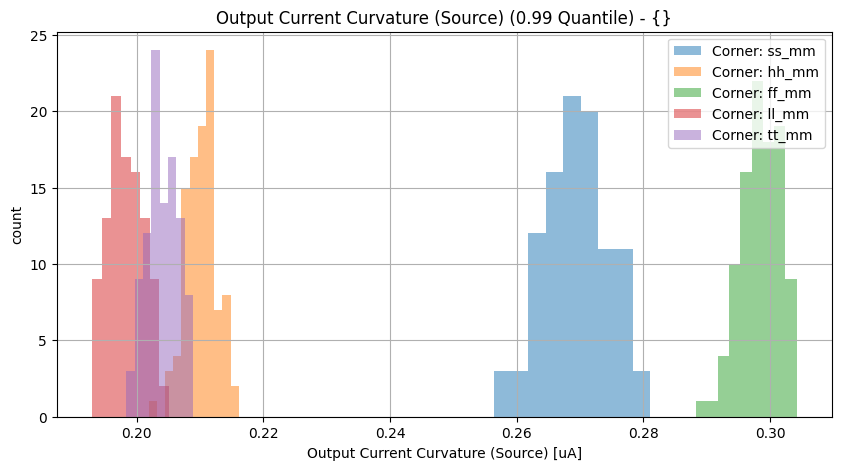
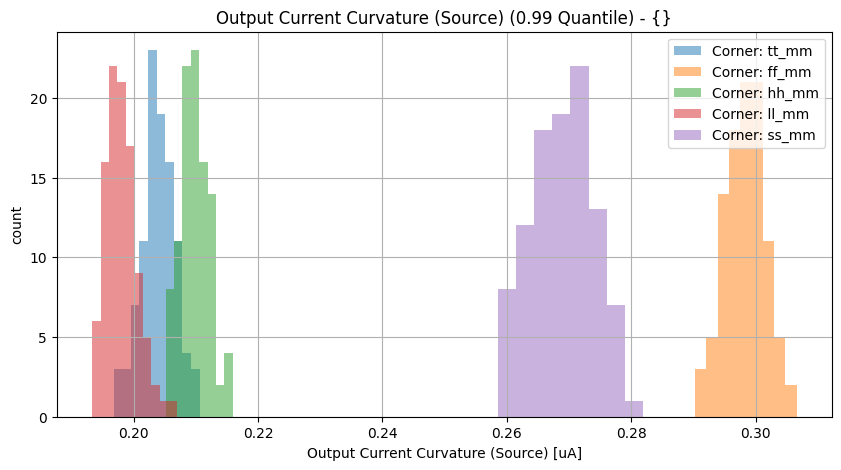
Jenkins update

diff --git a/vthref/vthref/Readme.md b/vthref/vthref/Readme.md
@@ -1,4 +1,4 @@
-23.01.2024, 15:21:02
+23.01.2024, 15:23:52
 
 # Vth Current Reference
 
@@ -30,8 +30,8 @@
 
 | Parameter | Min (Spec. / Sim.) |      | Max (Sim. / Spec.) | Unit | Checks (total/pass/fail/NaN) | Comment |
 | :-------- | -----------------: | :--: | :----------------- | :--- | :--------------------------- | ------- |
-| Output Current Curvature (Sink) | 0.0 / 0.191 | <svg height="20" width="150"><polyline points="3.0,3,3.0,17,147.0,17,147.0,3" style="fill:none;stroke:gray;stroke-width:1" /><polyline points="75.0,10.0,75.0,17" style="fill:none;stroke:gray;stroke-width:1" /><polyline points="30.482198399999998,10.0,47.946576,10.0" style="stroke:green;stroke-width:2" /><circle cx="30.482198399999998" cy="10.0" r="3" style="fill:green;stroke:green;stroke-width:0" /><circle cx="47.946576" cy="10.0" r="3" style="fill:green;stroke:green;stroke-width:0" /></svg> | 0.312 / 1.0 | uA | 500/100.0%/0.0%/0.0% |  |
-| Output Current Curvature (Source) | 0.0 / 0.193 | <svg height="20" width="150"><polyline points="3.0,3,3.0,17,147.0,17,147.0,3" style="fill:none;stroke:gray;stroke-width:1" /><polyline points="75.0,10.0,75.0,17" style="fill:none;stroke:gray;stroke-width:1" /><polyline points="30.7857216,10.0,46.8034608,10.0" style="stroke:green;stroke-width:2" /><circle cx="30.7857216" cy="10.0" r="3" style="fill:green;stroke:green;stroke-width:0" /><circle cx="46.8034608" cy="10.0" r="3" style="fill:green;stroke:green;stroke-width:0" /></svg> | 0.304 / 1.0 | uA | 500/100.0%/0.0%/0.0% |  |
+| Output Current Curvature (Sink) | 0.0 / 0.191 | <svg height="20" width="150"><polyline points="3.0,3,3.0,17,147.0,17,147.0,3" style="fill:none;stroke:gray;stroke-width:1" /><polyline points="75.0,10.0,75.0,17" style="fill:none;stroke:gray;stroke-width:1" /><polyline points="30.5331024,10.0,48.069192,10.0" style="stroke:green;stroke-width:2" /><circle cx="30.5331024" cy="10.0" r="3" style="fill:green;stroke:green;stroke-width:0" /><circle cx="48.069192" cy="10.0" r="3" style="fill:green;stroke:green;stroke-width:0" /></svg> | 0.313 / 1.0 | uA | 500/100.0%/0.0%/0.0% |  |
+| Output Current Curvature (Source) | 0.0 / 0.193 | <svg height="20" width="150"><polyline points="3.0,3,3.0,17,147.0,17,147.0,3" style="fill:none;stroke:gray;stroke-width:1" /><polyline points="75.0,10.0,75.0,17" style="fill:none;stroke:gray;stroke-width:1" /><polyline points="30.8407296,10.0,47.147260800000005,10.0" style="stroke:green;stroke-width:2" /><circle cx="30.8407296" cy="10.0" r="3" style="fill:green;stroke:green;stroke-width:0" /><circle cx="47.147260800000005" cy="10.0" r="3" style="fill:green;stroke:green;stroke-width:0" /></svg> | 0.307 / 1.0 | uA | 500/100.0%/0.0%/0.0% |  |
 
 <br>
 
@@ -50,16 +50,18 @@
 
 | Parameter | Min (Spec. / Sim.) |      | Max (Sim. / Spec.) | Unit | Checks (total/pass/fail/NaN) | Comment |
 | :-------- | -----------------: | :--: | :----------------- | :--- | :--------------------------- | ------- |
-| Output Current Curvature (Sink) | 0.0 / 0.193 | <svg height="20" width="150"><polyline points="3.0,3,3.0,17,33.6846578202514,17,33.6846578202514,3" style="fill:none;stroke:gray;stroke-width:1" /><polyline points="18.3423289101257,10.0,18.3423289101257,17" style="fill:none;stroke:gray;stroke-width:1" /><polyline points="8.919908184684989,10.0,147.0,10.0" style="stroke:red;stroke-width:2" /><circle cx="8.919908184684989" cy="10.0" r="3" style="fill:red;stroke:red;stroke-width:0" /><circle cx="147.0" cy="10.0" r="3" style="fill:red;stroke:red;stroke-width:0" /></svg> | 4.693 / 1.0 | uA | 500/99.8%/0.2%/0.0% |  |
-| Output Current Curvature (Source) | 0.0 / 0.2 | <svg height="20" width="150"><polyline points="3.0,3,3.0,17,34.16211984648328,17,34.16211984648328,3" style="fill:none;stroke:gray;stroke-width:1" /><polyline points="18.58105992324164,10.0,18.58105992324164,17" style="fill:none;stroke:gray;stroke-width:1" /><polyline points="9.228120480545856,10.0,147.0,10.0" style="stroke:red;stroke-width:2" /><circle cx="9.228120480545856" cy="10.0" r="3" style="fill:red;stroke:red;stroke-width:0" /><circle cx="147.0" cy="10.0" r="3" style="fill:red;stroke:red;stroke-width:0" /></svg> | 4.621 / 1.0 | uA | 500/99.8%/0.2%/0.0% |  |
+| Output Current Curvature (Sink) | 0.0 / 0.193 | <svg height="20" width="150"><polyline points="3.0,3,3.0,17,33.706950774198994,17,33.706950774198994,3" style="fill:none;stroke:gray;stroke-width:1" /><polyline points="18.353475387099497,10.0,18.353475387099497,17" style="fill:none;stroke:gray;stroke-width:1" /><polyline points="8.935248252902447,10.0,147.0,10.0" style="stroke:red;stroke-width:2" /><circle cx="8.935248252902447" cy="10.0" r="3" style="fill:red;stroke:red;stroke-width:0" /><circle cx="147.0" cy="10.0" r="3" style="fill:red;stroke:red;stroke-width:0" /></svg> | 4.689 / 1.0 | uA | 500/99.6%/0.4%/0.0% |  |
+| Output Current Curvature (Source) | 0.0 / 0.197 | <svg height="20" width="150"><polyline points="3.0,3,3.0,17,34.15451492744784,17,34.15451492744784,3" style="fill:none;stroke:gray;stroke-width:1" /><polyline points="18.57725746372392,10.0,18.57725746372392,17" style="fill:none;stroke:gray;stroke-width:1" /><polyline points="9.12350714163167,10.0,147.0,10.0" style="stroke:red;stroke-width:2" /><circle cx="9.12350714163167" cy="10.0" r="3" style="fill:red;stroke:red;stroke-width:0" /><circle cx="147.0" cy="10.0" r="3" style="fill:red;stroke:red;stroke-width:0" /></svg> | 4.622 / 1.0 | uA | 500/99.6%/0.4%/0.0% |  |
 
 <details><summary>Show specification violation details...</summary>
 
 > **FAIL:** Specification violation for parameter "Output Current Curvature (Sink)":<br>
-> **FAIL:** group:ff_mm file:work/sim/vthref/vthref_tb.4_dcext/batch_2/ff_mm/dc.csv Index:2 <br>
+> **FAIL:** group:ff_mm file:work/sim/vthref/vthref_tb.4_dcext/batch_0/ff_mm/dc.csv Index:7 <br>
+> **FAIL:** group:ll_mm file:work/sim/vthref/vthref_tb.4_dcext/batch_0/ll_mm/dc.csv Index:10 <br>
 
 > **FAIL:** Specification violation for parameter "Output Current Curvature (Source)":<br>
-> **FAIL:** group:ff_mm file:work/sim/vthref/vthref_tb.4_dcext/batch_2/ff_mm/dc.csv Index:2 <br>
+> **FAIL:** group:ff_mm file:work/sim/vthref/vthref_tb.4_dcext/batch_0/ff_mm/dc.csv Index:7 <br>
+> **FAIL:** group:ll_mm file:work/sim/vthref/vthref_tb.4_dcext/batch_0/ll_mm/dc.csv Index:10 <br>
 </details><br>
 
 

diff --git a/vthref/vthref/specReport.md b/vthref/vthref/specReport.md
@@ -13,8 +13,8 @@
 
 | Parameter | Min (Spec. / Sim.) |      | Max (Sim. / Spec.) | Unit | Checks (total/pass/fail/NaN) | Comment |
 | :-------- | -----------------: | :--: | :----------------- | :--- | :--------------------------- | ------- |
-| Output Current Curvature (Sink) | 0.0 / 0.191 | <svg height="20" width="150"><polyline points="3.0,3,3.0,17,147.0,17,147.0,3" style="fill:none;stroke:gray;stroke-width:1" /><polyline points="75.0,10.0,75.0,17" style="fill:none;stroke:gray;stroke-width:1" /><polyline points="30.482198399999998,10.0,47.946576,10.0" style="stroke:green;stroke-width:2" /><circle cx="30.482198399999998" cy="10.0" r="3" style="fill:green;stroke:green;stroke-width:0" /><circle cx="47.946576" cy="10.0" r="3" style="fill:green;stroke:green;stroke-width:0" /></svg> | 0.312 / 1.0 | uA | 500/100.0%/0.0%/0.0% |  |
-| Output Current Curvature (Source) | 0.0 / 0.193 | <svg height="20" width="150"><polyline points="3.0,3,3.0,17,147.0,17,147.0,3" style="fill:none;stroke:gray;stroke-width:1" /><polyline points="75.0,10.0,75.0,17" style="fill:none;stroke:gray;stroke-width:1" /><polyline points="30.7857216,10.0,46.8034608,10.0" style="stroke:green;stroke-width:2" /><circle cx="30.7857216" cy="10.0" r="3" style="fill:green;stroke:green;stroke-width:0" /><circle cx="46.8034608" cy="10.0" r="3" style="fill:green;stroke:green;stroke-width:0" /></svg> | 0.304 / 1.0 | uA | 500/100.0%/0.0%/0.0% |  |
+| Output Current Curvature (Sink) | 0.0 / 0.191 | <svg height="20" width="150"><polyline points="3.0,3,3.0,17,147.0,17,147.0,3" style="fill:none;stroke:gray;stroke-width:1" /><polyline points="75.0,10.0,75.0,17" style="fill:none;stroke:gray;stroke-width:1" /><polyline points="30.5331024,10.0,48.069192,10.0" style="stroke:green;stroke-width:2" /><circle cx="30.5331024" cy="10.0" r="3" style="fill:green;stroke:green;stroke-width:0" /><circle cx="48.069192" cy="10.0" r="3" style="fill:green;stroke:green;stroke-width:0" /></svg> | 0.313 / 1.0 | uA | 500/100.0%/0.0%/0.0% |  |
+| Output Current Curvature (Source) | 0.0 / 0.193 | <svg height="20" width="150"><polyline points="3.0,3,3.0,17,147.0,17,147.0,3" style="fill:none;stroke:gray;stroke-width:1" /><polyline points="75.0,10.0,75.0,17" style="fill:none;stroke:gray;stroke-width:1" /><polyline points="30.8407296,10.0,47.147260800000005,10.0" style="stroke:green;stroke-width:2" /><circle cx="30.8407296" cy="10.0" r="3" style="fill:green;stroke:green;stroke-width:0" /><circle cx="47.147260800000005" cy="10.0" r="3" style="fill:green;stroke:green;stroke-width:0" /></svg> | 0.307 / 1.0 | uA | 500/100.0%/0.0%/0.0% |  |
 
 <br>
 
@@ -33,15 +33,17 @@
 
 | Parameter | Min (Spec. / Sim.) |      | Max (Sim. / Spec.) | Unit | Checks (total/pass/fail/NaN) | Comment |
 | :-------- | -----------------: | :--: | :----------------- | :--- | :--------------------------- | ------- |
-| Output Current Curvature (Sink) | 0.0 / 0.193 | <svg height="20" width="150"><polyline points="3.0,3,3.0,17,33.6846578202514,17,33.6846578202514,3" style="fill:none;stroke:gray;stroke-width:1" /><polyline points="18.3423289101257,10.0,18.3423289101257,17" style="fill:none;stroke:gray;stroke-width:1" /><polyline points="8.919908184684989,10.0,147.0,10.0" style="stroke:red;stroke-width:2" /><circle cx="8.919908184684989" cy="10.0" r="3" style="fill:red;stroke:red;stroke-width:0" /><circle cx="147.0" cy="10.0" r="3" style="fill:red;stroke:red;stroke-width:0" /></svg> | 4.693 / 1.0 | uA | 500/99.8%/0.2%/0.0% |  |
-| Output Current Curvature (Source) | 0.0 / 0.2 | <svg height="20" width="150"><polyline points="3.0,3,3.0,17,34.16211984648328,17,34.16211984648328,3" style="fill:none;stroke:gray;stroke-width:1" /><polyline points="18.58105992324164,10.0,18.58105992324164,17" style="fill:none;stroke:gray;stroke-width:1" /><polyline points="9.228120480545856,10.0,147.0,10.0" style="stroke:red;stroke-width:2" /><circle cx="9.228120480545856" cy="10.0" r="3" style="fill:red;stroke:red;stroke-width:0" /><circle cx="147.0" cy="10.0" r="3" style="fill:red;stroke:red;stroke-width:0" /></svg> | 4.621 / 1.0 | uA | 500/99.8%/0.2%/0.0% |  |
+| Output Current Curvature (Sink) | 0.0 / 0.193 | <svg height="20" width="150"><polyline points="3.0,3,3.0,17,33.706950774198994,17,33.706950774198994,3" style="fill:none;stroke:gray;stroke-width:1" /><polyline points="18.353475387099497,10.0,18.353475387099497,17" style="fill:none;stroke:gray;stroke-width:1" /><polyline points="8.935248252902447,10.0,147.0,10.0" style="stroke:red;stroke-width:2" /><circle cx="8.935248252902447" cy="10.0" r="3" style="fill:red;stroke:red;stroke-width:0" /><circle cx="147.0" cy="10.0" r="3" style="fill:red;stroke:red;stroke-width:0" /></svg> | 4.689 / 1.0 | uA | 500/99.6%/0.4%/0.0% |  |
+| Output Current Curvature (Source) | 0.0 / 0.197 | <svg height="20" width="150"><polyline points="3.0,3,3.0,17,34.15451492744784,17,34.15451492744784,3" style="fill:none;stroke:gray;stroke-width:1" /><polyline points="18.57725746372392,10.0,18.57725746372392,17" style="fill:none;stroke:gray;stroke-width:1" /><polyline points="9.12350714163167,10.0,147.0,10.0" style="stroke:red;stroke-width:2" /><circle cx="9.12350714163167" cy="10.0" r="3" style="fill:red;stroke:red;stroke-width:0" /><circle cx="147.0" cy="10.0" r="3" style="fill:red;stroke:red;stroke-width:0" /></svg> | 4.622 / 1.0 | uA | 500/99.6%/0.4%/0.0% |  |
 
 <details><summary>Show specification violation details...</summary>
 
 > **FAIL:** Specification violation for parameter "Output Current Curvature (Sink)":<br>
-> **FAIL:** group:ff_mm file:work/sim/vthref/vthref_tb.4_dcext/batch_2/ff_mm/dc.csv Index:2 <br>
+> **FAIL:** group:ff_mm file:work/sim/vthref/vthref_tb.4_dcext/batch_0/ff_mm/dc.csv Index:7 <br>
+> **FAIL:** group:ll_mm file:work/sim/vthref/vthref_tb.4_dcext/batch_0/ll_mm/dc.csv Index:10 <br>
 
 > **FAIL:** Specification violation for parameter "Output Current Curvature (Source)":<br>
-> **FAIL:** group:ff_mm file:work/sim/vthref/vthref_tb.4_dcext/batch_2/ff_mm/dc.csv Index:2 <br>
+> **FAIL:** group:ff_mm file:work/sim/vthref/vthref_tb.4_dcext/batch_0/ff_mm/dc.csv Index:7 <br>
+> **FAIL:** group:ll_mm file:work/sim/vthref/vthref_tb.4_dcext/batch_0/ll_mm/dc.csv Index:10 <br>
 </details><br>
 

diff --git a/sar8/tg/Readme.md b/sar8/tg/Readme.md
@@ -1,4 +1,4 @@
-23.01.2024, 15:21:02
+23.01.2024, 15:23:52
 
 # ADC Transmission Gate / Sample Switch
 

diff --git a/bmbg/bmbgota/Readme.md b/bmbg/bmbgota/Readme.md
@@ -1,4 +1,4 @@
-23.01.2024, 15:21:02
+23.01.2024, 15:23:52
 
 # Beta-Multiplier Bandgap OTA
 

diff --git a/bmbg/bmbg/Readme.md b/bmbg/bmbg/Readme.md
@@ -1,4 +1,4 @@
-23.01.2024, 15:21:02
+23.01.2024, 15:23:52
 
 # Beta-Multiplier Bandgap
 

diff --git a/riosc/riosc/Readme.md b/riosc/riosc/Readme.md
@@ -1,4 +1,4 @@
-23.01.2024, 15:21:02
+23.01.2024, 15:23:52
 
 # Ring Oscillator
 

diff --git a/sar8/cmp/Readme.md b/sar8/cmp/Readme.md
@@ -1,4 +1,4 @@
-23.01.2024, 15:21:02
+23.01.2024, 15:23:52
 
 # ADC Comparator
 

diff --git a/ldo/ldo/Readme.md b/ldo/ldo/Readme.md
@@ -1,4 +1,4 @@
-23.01.2024, 15:21:02
+23.01.2024, 15:23:52
 
 # 1.8 V LDO
 

diff --git a/sar8/sar8/Readme.md b/sar8/sar8/Readme.md
@@ -1,4 +1,4 @@
-23.01.2024, 15:21:02
+23.01.2024, 15:23:52
 
 # 5 V ADC
 

diff --git a/ldo/ldoota/Readme.md b/ldo/ldoota/Readme.md
@@ -1,4 +1,4 @@
-23.01.2024, 15:21:02
+23.01.2024, 15:23:52
 
 # LDO OP
 
